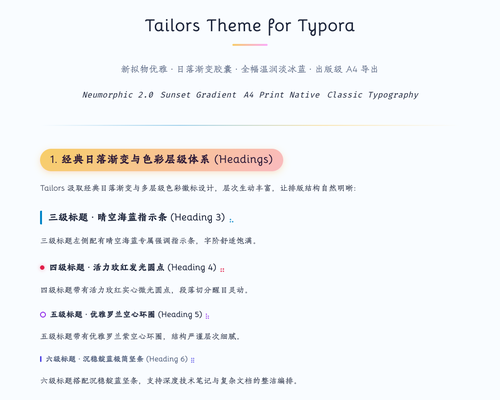
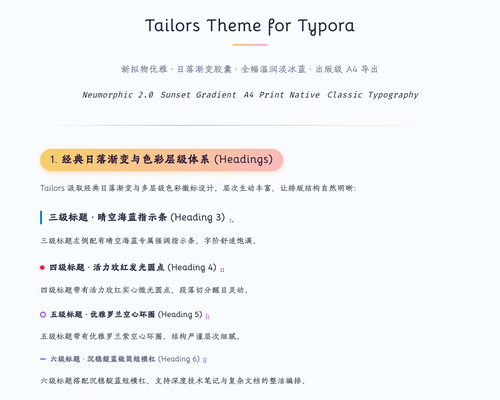
style: change H6 prefix indicator from vertical bar to horizontal dash

Changed region(s): [[0.09, 0.87, 0.6, 0.96]]

diff --git a/preview.html b/preview.html
@@ -370,7 +370,7 @@ content {
   flex-shrink: 0;
 }
 
-/* 六级标题：极简坚竖条 (沉稳靛蓝) */
+/* 六级标题：极简短横杠 (沉稳靛蓝) */
 #write h6 {
   font-size: 0.95rem;
   margin: 1.2rem 0 0.65rem;
@@ -382,8 +382,8 @@ content {
 #write h6::before {
   content: "";
   display: inline-block;
-  width: 3px;
-  height: 12px;
+  width: 12px;
+  height: 2.5px;
   margin-right: 8px;
   border-radius: 2px;
   background-color: var(--h6-r-color);
@@ -1288,8 +1288,8 @@ body.typora-export #write hr,
   #write h6::before {
     content: "" !important;
     display: inline-block !important;
-    width: 3px !important;
-    height: 11px !important;
+    width: 11px !important;
+    height: 2.5px !important;
     margin-right: 7px !important;
     border-radius: 2px !important;
     background-color: var(--h6-r-color) !important;
@@ -1443,8 +1443,8 @@ body.typora-export #write hr,
   <h5 id="h5-demo"><span>五级标题 · 优雅罗兰空心环圈 (Heading 5)</span></h5>
   <p><span>五级标题带有优雅罗兰紫空心环圈，结构严谨层次细腻。</span></p>
 
-  <h6 id="h6-demo"><span>六级标题 · 沉稳靛蓝极简坚条 (Heading 6)</span></h6>
-  <p><span>六级标题搭配沉稳靛蓝坚条，支持深度技术笔记与复杂文档的整洁编排。</span></p>
+  <h6 id="h6-demo"><span>六级标题 · 沉稳靛蓝极简短横杠 (Heading 6)</span></h6>
+  <p><span>六级标题搭配沉稳靛蓝短横杠，支持深度技术笔记与复杂文档的整洁编排。</span></p>
 
   <hr />
 

diff --git a/README.md b/README.md
@@ -33,7 +33,7 @@ Tailors seamlessly combines classic sunset gradients (Phycat) with soft neumorph
   - **H3 Sky-Blue**: Left vertical accent border accompanied by a 3-dot cyan pattern;
   - **H4 Vibrant Rose**: Solid glowing dot badge accompanied by a 4-dot magenta pattern;
   - **H5 Roland Purple**: Delicate hollow ring accompanied by a 5-dot purple pattern;
-  - **H6 Indigo**: Minimal vertical bar accompanied by a 6-dot deep indigo pattern;
+  - **H6 Indigo**: Minimal horizontal dash accompanied by a 6-dot deep indigo pattern;
 - **`<var>` Neumorphic Capsules**: Tactile raised pill badges with ambient gradient glow.
 
 ![Sunset Gradient & Chromatic Heading System](media/theme/tailors/showcase-headings.png)

diff --git a/_posts/theme/2026-11-05-tailors.md b/_posts/theme/2026-11-05-tailors.md
@@ -33,7 +33,7 @@ Tailors seamlessly combines classic sunset gradients (Phycat) with soft neumorph
   - **H3 Sky-Blue**: Left vertical accent border accompanied by a 3-dot cyan pattern;
   - **H4 Vibrant Rose**: Solid glowing dot badge accompanied by a 4-dot magenta pattern;
   - **H5 Roland Purple**: Delicate hollow ring accompanied by a 5-dot purple pattern;
-  - **H6 Indigo**: Minimal vertical bar accompanied by a 6-dot deep indigo pattern;
+  - **H6 Indigo**: Minimal horizontal dash accompanied by a 6-dot deep indigo pattern;
 - **`<var>` Neumorphic Capsules**: Tactile raised pill badges with ambient gradient glow.
 
 ![Sunset Gradient & Chromatic Heading System](media/theme/tailors/showcase-headings.png)

diff --git a/Typora-Theme-Tailors 中文介绍.md b/Typora-Theme-Tailors 中文介绍.md
@@ -31,7 +31,7 @@ Tailors 深度融合经典日落渐变（Phycat）与柔和新拟物（Neumorphi
   - **H3 晴空海蓝**：左侧精致高亮边框与 3 阶晴空蓝点阵；
   - **H4 活力玫红**：实心微光圆点徽标与 4 阶玫红点阵；
   - **H5 优雅罗兰**：精致空心环圈标示与 5 阶罗兰紫点阵；
-  - **H6 沉稳靛蓝**：极简坚竖条与 6 阶深靛蓝点阵；
+  - **H6 沉稳靛蓝**：极简短横杠与 6 阶深靛蓝点阵；
 - **`<var>` 微拟物胶囊**：经典微凸起触感与渐变微发光标签。
 
 ![经典日落渐变与色彩标题体系](media/theme/tailors/showcase-headings.png)
